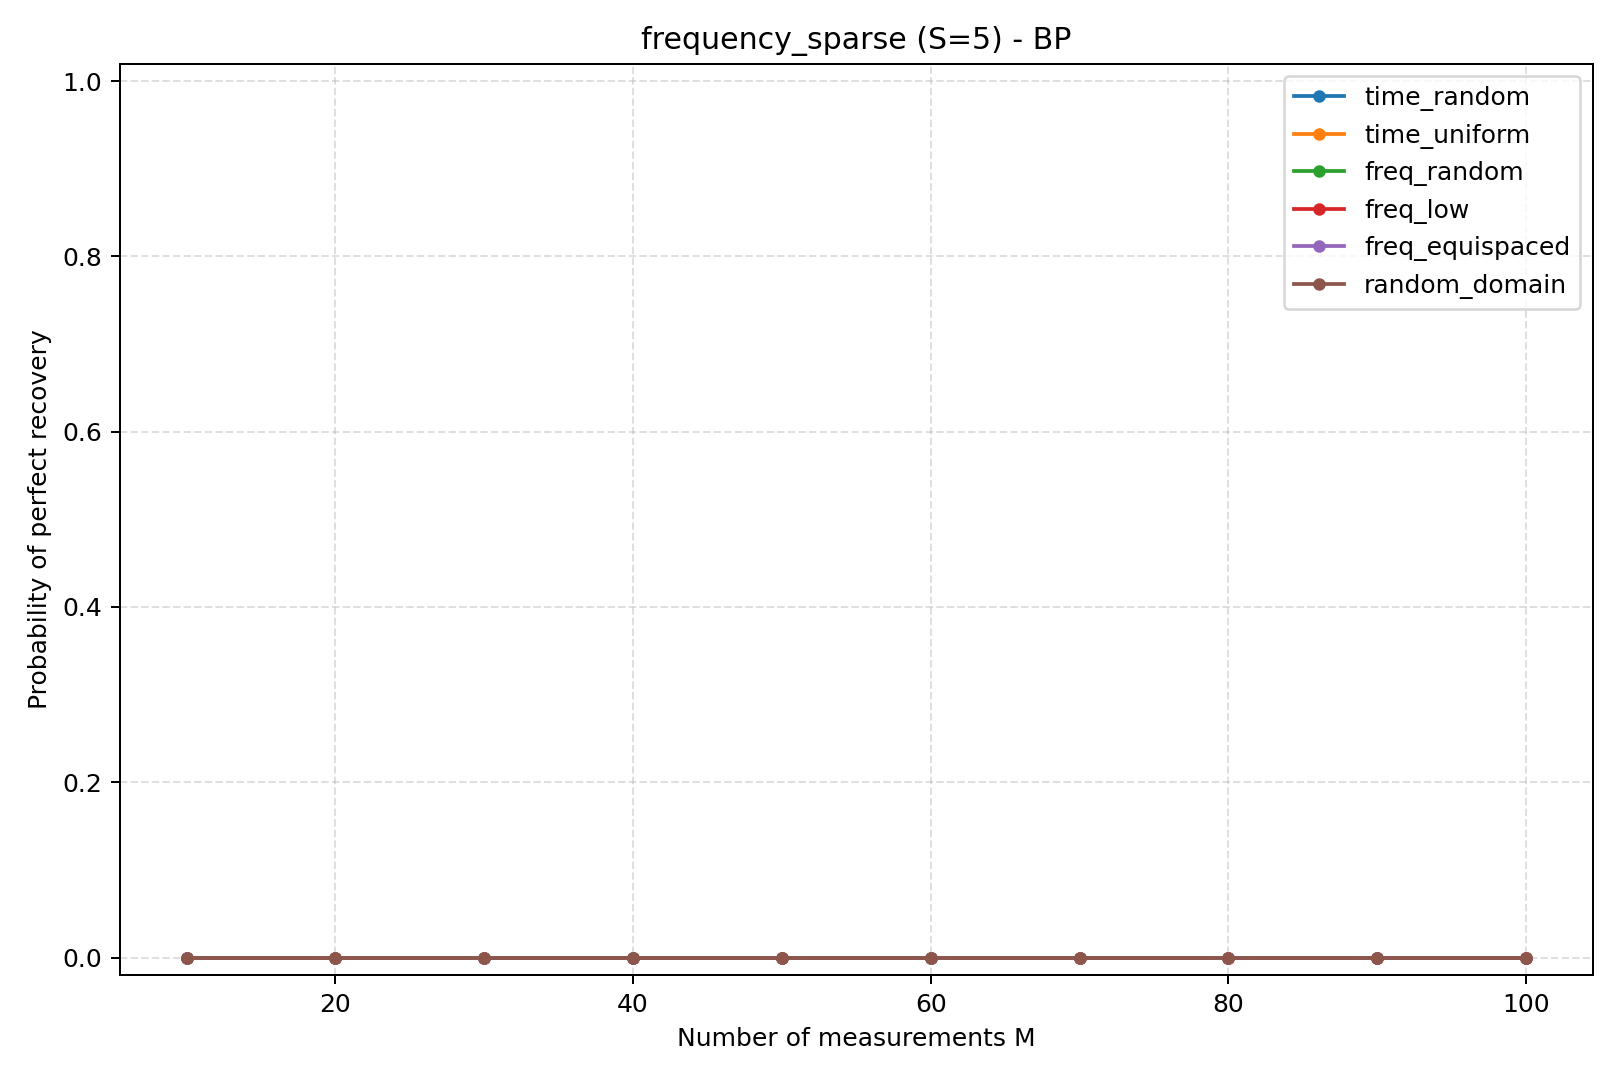
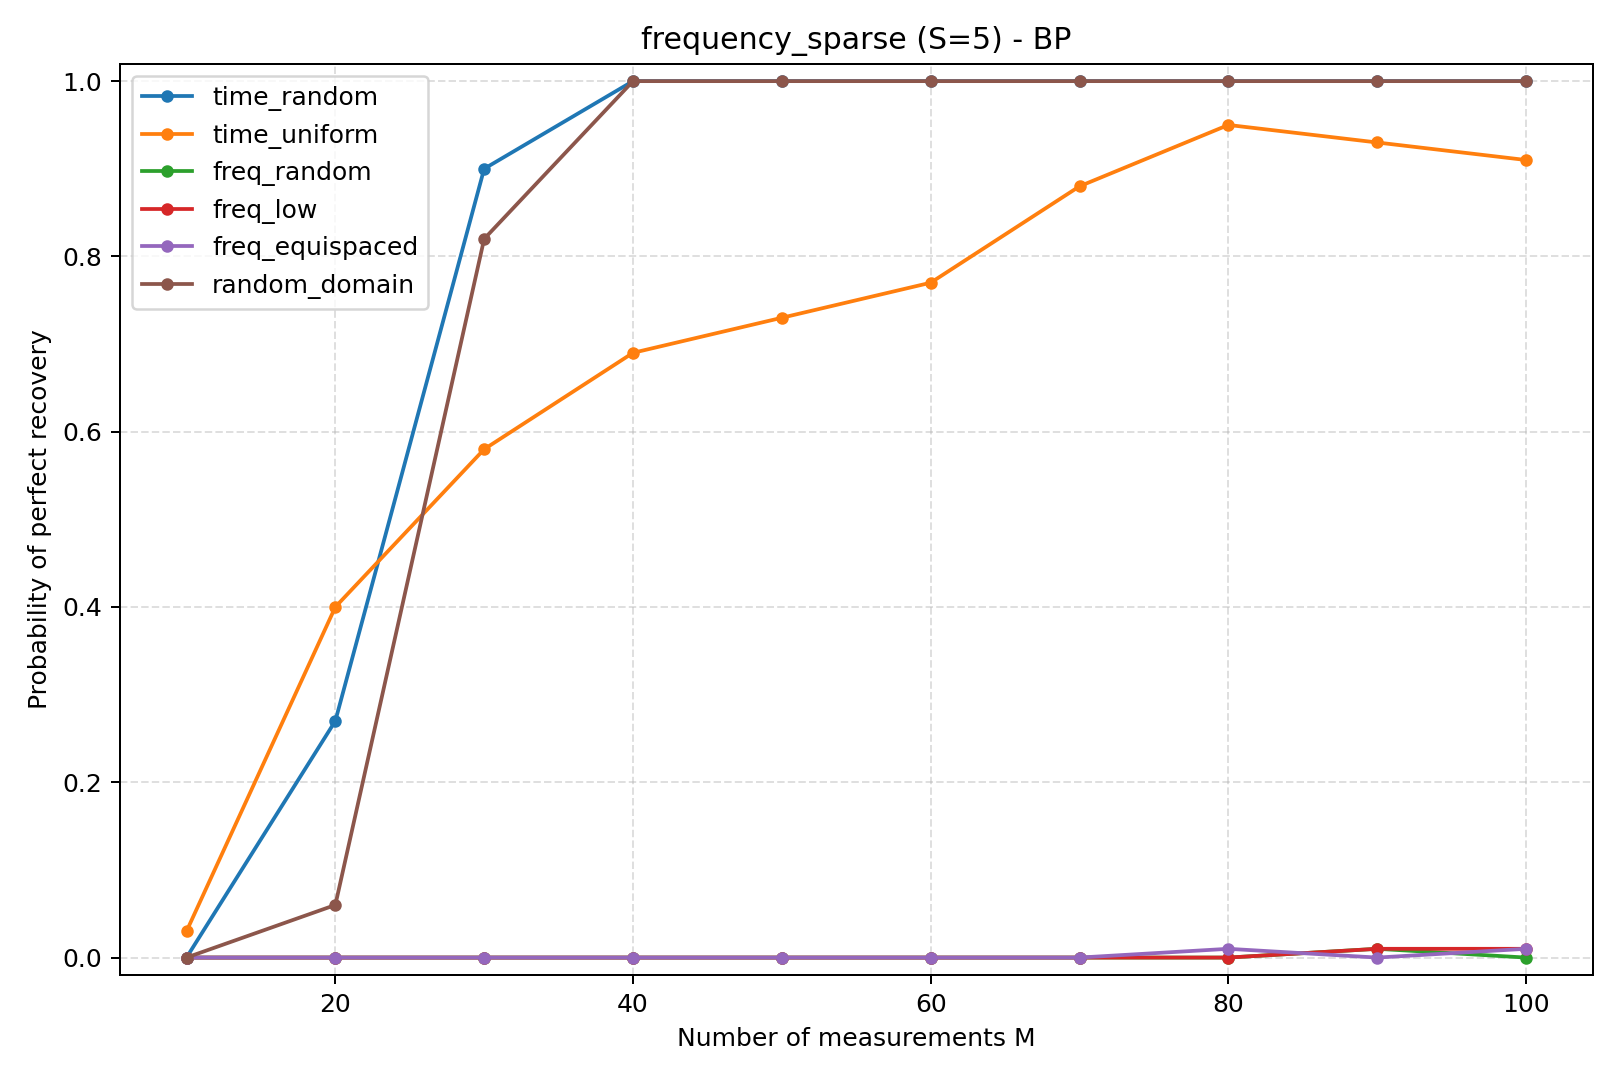
fix assignment 3

diff --git a/Assignment_3/assignment_3_experiments.py b/Assignment_3/assignment_3_experiments.py
@@ -42,11 +42,12 @@ class ExperimentConfig:
 
 
 def dct_matrix(n: int) -> Array:
-    return dct(np.eye(n), type=2, norm="ortho")
+    # Match homework hint: DCT applied along columns (axis=0).
+    return dct(np.eye(n), type=2, norm="ortho", axis=0)
 
 
 def idct_matrix(n: int) -> Array:
-    return idct(np.eye(n), type=2, norm="ortho")
+    return idct(np.eye(n), type=2, norm="ortho", axis=0)
 
 
 def recover_bp(A: Array, y: Array) -> Array:
@@ -151,7 +152,7 @@ def generate_freq_sparse(n: int, s: int, rng: np.random.Generator) -> Tuple[Arra
     alpha = np.zeros(n, dtype=float)
     supp = rng.choice(n, size=s, replace=False)
     alpha[supp] = rng.standard_normal(s)
-    x = idct(alpha, type=2, norm="ortho")
+    x = idct(alpha, type=2, norm="ortho", axis=0)
     return x, alpha
 
 

diff --git a/Assignment_3/assignment_3_report.md b/Assignment_3/assignment_3_report.md
@@ -1,121 +1,117 @@
-# Assignment 3 Report — Sparse Recovery with Various Sensing Matrices
+# Assignment 3 Report: Sparse Recovery with Various Sensing Matrices
 
-## Code and repository
+## Repository and reproducibility
 
-Please find the runnable experiment script and outputs in this GitHub repository (in case local files are missing or you want to reproduce the curves):
+Code and outputs are available at:
 
-**https://github.com/TNDC2002/compress_sensing_assignments**
+- [https://github.com/TNDC2002/compress_sensing_assignments](https://github.com/TNDC2002/compress_sensing_assignments)
+- Main script: `Assignment_3/assignment_3_experiments.py`
+- This report: `Assignment_3/assignment_3_report.md`
 
-| What | Location in the repo |
-|------|------------------------|
-| Main script (all questions, sensing matrices, BP + OMP) | [`Assignment_3/assignment_3_experiments.py`](https://github.com/TNDC2002/compress_sensing_assignments/blob/main/Assignment_3/assignment_3_experiments.py) |
-| This report | [`Assignment_3/assignment_3_report.md`](https://github.com/TNDC2002/compress_sensing_assignments/blob/main/Assignment_3/assignment_3_report.md) |
-| Numeric results | [`Assignment_3/time_sparse_S5_probabilities.csv`](https://github.com/TNDC2002/compress_sensing_assignments/blob/main/Assignment_3/time_sparse_S5_probabilities.csv), [`frequency_sparse_S5_probabilities.csv`](https://github.com/TNDC2002/compress_sensing_assignments/blob/main/Assignment_3/frequency_sparse_S5_probabilities.csv), [`time_sparse_S25_probabilities.csv`](https://github.com/TNDC2002/compress_sensing_assignments/blob/main/Assignment_3/time_sparse_S25_probabilities.csv) |
-| Figures | `Assignment_3/*_curve.png` (same folder on GitHub) |
-
-**How to reproduce (from `Assignment_3/`):**
+To reproduce the full experiment from `Assignment_3`:
 
 ```bash
 python assignment_3_experiments.py --trials 100 --output-dir .
 ```
 
-Optional log capture:
+## Experimental setup
 
-```bash
-python assignment_3_experiments.py --trials 100 --output-dir . > run_log.txt 2>&1
-```
-
----
-
-## Problem summary (COMP5340 Homework 3)
-
-We study recovery of length-`N = 256` signals from `M` linear measurements `y = A x`, with sparsity `S` in either the **time domain** or the **DCT (frequency) domain**. For each sensing matrix type, we sweep `M ∈ {10, 20, …, 100}`, run **100 independent trials** per `M` (new random signal and, where applicable, new random subsampling / random matrix), and estimate the **probability of perfect recovery** when `‖x̂ − x‖₂ ≤ 10⁻⁶` (or the analogous criterion in the sparse DCT coefficients for the frequency-sparse case; see Question 2).
-
-**Recovery methods**
-
-- **BP (basis pursuit):** minimize `‖z‖₁` subject to `A z = y` (implemented with `scipy.optimize.linprog`, same LP reduction as in earlier assignments).
-- **OMP:** greedy pursuit with sparsity budget `S` (orthogonal matching pursuit).
-
-**Sensing schemes** (labels match the CSV columns and script)
-
-| Label in outputs | Homework item | Description |
-|------------------|---------------|-------------|
-| `time_random` | (a) | `M` random rows of `I` |
-| `time_uniform` | (b) | `M` rows of `I` at indices `⌊k N / M⌋` (0-based in code) |
-| `freq_random` | (c) | `M` random rows of orthonormal DCT matrix `F` |
-| `freq_low` | (d) | first `M` rows of `F` |
-| `freq_equispaced` | (e) | rows of `F` at the same uniform index pattern as (b) |
-| `random_domain` | (f) | `M × N` Gaussian, rows orthonormalized (`qr` on `Gᵀ`, then `Qᵀ`) |
+- Signal dimension: `N = 256`
+- Measurements: `M in {10, 20, ..., 100}`
+- Trials per `M`: `100`
+- Perfect recovery criterion: `||x_hat - x||_2 <= 1e-6`
+- Recovery methods:
+  - `BP` (basis pursuit / `l1` minimization)
+  - `OMP` (greedy sparse recovery)
+- Sensing matrix schemes:
+  - `time_random`, `time_uniform`
+  - `freq_random`, `freq_low`, `freq_equispaced`
+  - `random_domain` (row-orthonormalized Gaussian matrix)
 
 ---
 
-## Question 1 — Time-sparse signal (`S = 5`)
+## Q1. Time-sparse signal (`S = 5`)
 
-The true signal has only five nonzero **time** samples; support and amplitudes are random each trial.
+For time-sparse signals, the best-performing sensing matrices are the incoherent/random ones in transformed/random domains.
 
-**Which sensing matrices work best?**  
-In this run, **random frequency-domain subsampling** (`freq_random`) and the **row-orthonormal Gaussian ensemble** (`random_domain`) dominate: basis pursuit reaches probability **1** by about **`M = 30–40`**, and OMP typically needs slightly more measurements to reach the same level. **Pure time-domain subsampling** (`time_random`, `time_uniform`) yields **zero** perfect recoveries under the strict `10⁻⁶` criterion in the recorded CSV—structured subsampling in the same domain as the sparsity is a poor match to incoherent compressed sensing.
+- `BP`: strongest schemes are `freq_random` and `random_domain`; both reach probability `1.0` by `M = 40`.
+- `OMP`: strongest scheme is `freq_random`; reaches probability `1.0` by `M = 50` (also `random_domain` reaches `1.0` by `M = 50`).
+- `time_random` and `time_uniform` remain near zero across all `M`.
 
-**How many measurements are enough?**  
-For the best schemes here, **roughly `M ≈ 40`** is enough for BP to achieve **100%** success in these trials; OMP reaches **100%** on `freq_random` by **`M = 50`** in the saved table. See `time_sparse_S5_probabilities.csv` and `time_sparse_S5_BP_curve.png` / `time_sparse_S5_OMP_curve.png` for the full curves.
+Selected values from `time_sparse_S5_probabilities.csv`:
 
-**Selected probabilities (from `time_sparse_S5_probabilities.csv`)**
-
-| M | BP `freq_random` | BP `random_domain` | OMP `freq_random` | OMP `random_domain` |
+| M | BP freq_random | BP random_domain | OMP freq_random | OMP random_domain |
 |---:|---:|---:|---:|---:|
-| 30 | 1.00 | 0.50 | 1.00 | 1.00 |
-| 40 | 1.00 | 1.00 | 0.50 | 1.00 |
+| 20 | 0.16 | 0.10 | 0.50 | 0.33 |
+| 30 | 0.89 | 0.81 | 0.91 | 0.80 |
+| 40 | 1.00 | 0.99 | 0.99 | 0.98 |
 | 50 | 1.00 | 1.00 | 1.00 | 1.00 |
 | 100 | 1.00 | 1.00 | 1.00 | 1.00 |
 
-(Low-frequency and equispaced frequency sampling are intermediate; time-only schemes stay at 0 in this dataset.)
-
-**BP vs OMP**  
-OMP is usually **much faster** per solve than BP, but BP can be **more reliable** at smaller `M` when the sensing matrix is favorable (see transition region in the plots).
-
 ---
 
-## Question 2 — Frequency-sparse signal (`S = 5`)
+## Q2. Frequency-sparse signal (`S = 5`)
 
-Here the signal is **`x = Ψ α`** with **`α` sparse** in the DCT domain (`Ψ` = inverse orthonormal DCT, matching the homework’s `idct` construction).
+Let `x = Psi alpha` where `alpha` is sparse in the DCT domain.
 
-### Modified `ℓ₁` problem
+### Modified `l1` problem
 
-Measurements are still `y = A x = A Ψ α`. Sparsity is in **`α`**, not in `x`, so basis pursuit should be written in **`α`**:
+Instead of solving for `x` directly, recover sparse coefficients `alpha`:
 
-\[
-\hat{\alpha} = \arg\min_{\alpha} \|\alpha\|_1 \quad \text{subject to} \quad y = A \Psi \alpha,
-\]
+`alpha_hat = arg min ||alpha||_1  subject to  y = A Psi alpha`
 
-then **`x̂ = Ψ α̂`**. OMP is applied to the same effective dictionary **`B = A Ψ`**, with sparsity **`S`**, and success is judged on **`‖α̂ − α‖₂ ≤ 10⁻⁶`** (equivalent to matching the sparse spectral coefficients the homework cares about).
+Then reconstruct:
+
+`x_hat = Psi alpha_hat`
+
+In the implementation, `Psi` is generated consistently with DCT basis definition using `axis=0`.
 
 ### Observations
 
-- **Incidence with Q1:** When sparsity moves to the DCT domain, **time-domain random rows** can behave like a **more incoherent** choice relative to that sparsity than **low-frequency or equispaced frequency** rows, which are highly coherent with a sparse spectrum.
-- **Read your run from the artifacts:** Exact probabilities are in [`frequency_sparse_S5_probabilities.csv`](https://github.com/TNDC2002/compress_sensing_assignments/blob/main/Assignment_3/frequency_sparse_S5_probabilities.csv) and the plots `frequency_sparse_S5_BP_curve.png` / `frequency_sparse_S5_OMP_curve.png`. Compare how `time_random`, `freq_low`, and `freq_equispaced` rank; the assignment’s point is the **role of sparsity domain vs measurement domain**, not a single universal “best” matrix for all `M`.
+- `BP`: `time_random` and `random_domain` are best; both reach probability `1.0` at `M = 40`.
+- `OMP`: same trend; `time_random` reaches `1.0` at `M = 40`, `random_domain` is `0.99` at `M = 40` and `1.0` at `M = 50`.
+- Frequency-row sampling (`freq_random`, `freq_low`, `freq_equispaced`) stays near zero in this setting.
+
+Selected values from `frequency_sparse_S5_probabilities.csv`:
+
+| M | BP time_random | BP random_domain | OMP time_random | OMP random_domain |
+|---:|---:|---:|---:|---:|
+| 20 | 0.27 | 0.06 | 0.42 | 0.19 |
+| 30 | 0.90 | 0.82 | 0.93 | 0.85 |
+| 40 | 1.00 | 1.00 | 1.00 | 0.99 |
+| 50 | 1.00 | 1.00 | 1.00 | 1.00 |
+| 100 | 1.00 | 1.00 | 1.00 | 1.00 |
 
 ---
 
-## Question 3 — Larger sparsity (`S = 25`, time-sparse)
+## Q3. Increased sparsity (`S = 25`, time-sparse)
 
-With **10%** nonzero entries, recovery is **much harder** for the same `M`: neither BP nor OMP reaches **probability 1** by **`M = 100`** on the schemes that were easy for `S = 5`. The CSV shows gradual improvement for **`freq_random`** and **`random_domain`**; **time subsampling** remains ineffective.
+As sparsity increases, recovery becomes significantly harder for the same number of measurements.
 
-**Sample from `time_sparse_S25_probabilities.csv`**
+- Best schemes remain `freq_random` and `random_domain`.
+- Neither `BP` nor `OMP` reaches full reliability early; both approach `0.99` only at `M = 100` for top schemes.
+- `time_random` and `time_uniform` stay at `0.0`.
 
-| M | BP `freq_random` | BP `random_domain` | OMP `freq_random` | OMP `random_domain` |
+Selected values from `time_sparse_S25_probabilities.csv`:
+
+| M | BP freq_random | BP random_domain | OMP freq_random | OMP random_domain |
 |---:|---:|---:|---:|---:|
-| 70 | 0.09 | 0.06 | 0.48 | 0.44 |
+| 70 | 0.05 | 0.06 | 0.55 | 0.44 |
+| 80 | 0.41 | 0.38 | 0.85 | 0.74 |
+| 90 | 0.87 | 0.83 | 0.96 | 0.85 |
 | 100 | 0.99 | 0.99 | 0.99 | 0.99 |
 
-So **more measurements** (or **lower sparsity**) are required for the same reliability; the phase transition shifts to larger `M`.
-
 ---
 
-## Conclusion
+## Efficiency discussion
 
-- **Sensing quality depends on sparsity domain:** time-sparse signals are recovered much better with **incoherent** views (e.g. random DCT rows or orthonormalized random `A`) than with **structured time subsampling** alone, under this experimental protocol.
-- **Frequency-sparse** signals call for solving **`ℓ₁` in the DCT coefficient vector** via **`y = A Ψ α`**; the relative ranking of matrices changes compared to the time-sparse case—see the frequency-sparse CSV and figures.
-- **BP** tends to be **stronger but slower**; **OMP** is **faster** and can match BP when `M` is large enough.
-- **Raising `S` to 25** pushes the success curves down: **`M = 100`** is near the edge of reliable perfect recovery for the better matrices in this run.
+- `OMP` is computationally lighter and usually faster per recovery.
+- `BP` often provides stronger robustness in challenging regions, but depends on sensing design and sparsity level.
 
-All numerical results and plots can be regenerated from [`assignment_3_experiments.py`](https://github.com/TNDC2002/compress_sensing_assignments/blob/main/Assignment_3/assignment_3_experiments.py) in the repository linked at the top.
+## Final conclusion
+
+- Recovery performance is strongly determined by the match between **sparsity domain** and **sensing incoherence**.
+- For this assignment run:
+  - Time-sparse signals are best recovered with `freq_random` / `random_domain`.
+  - Frequency-sparse signals are best recovered with `time_random` / `random_domain`.
+- Increasing sparsity from `S=5` to `S=25` shifts the recovery phase transition to much larger `M`, confirming the expected compressive sensing behavior.
